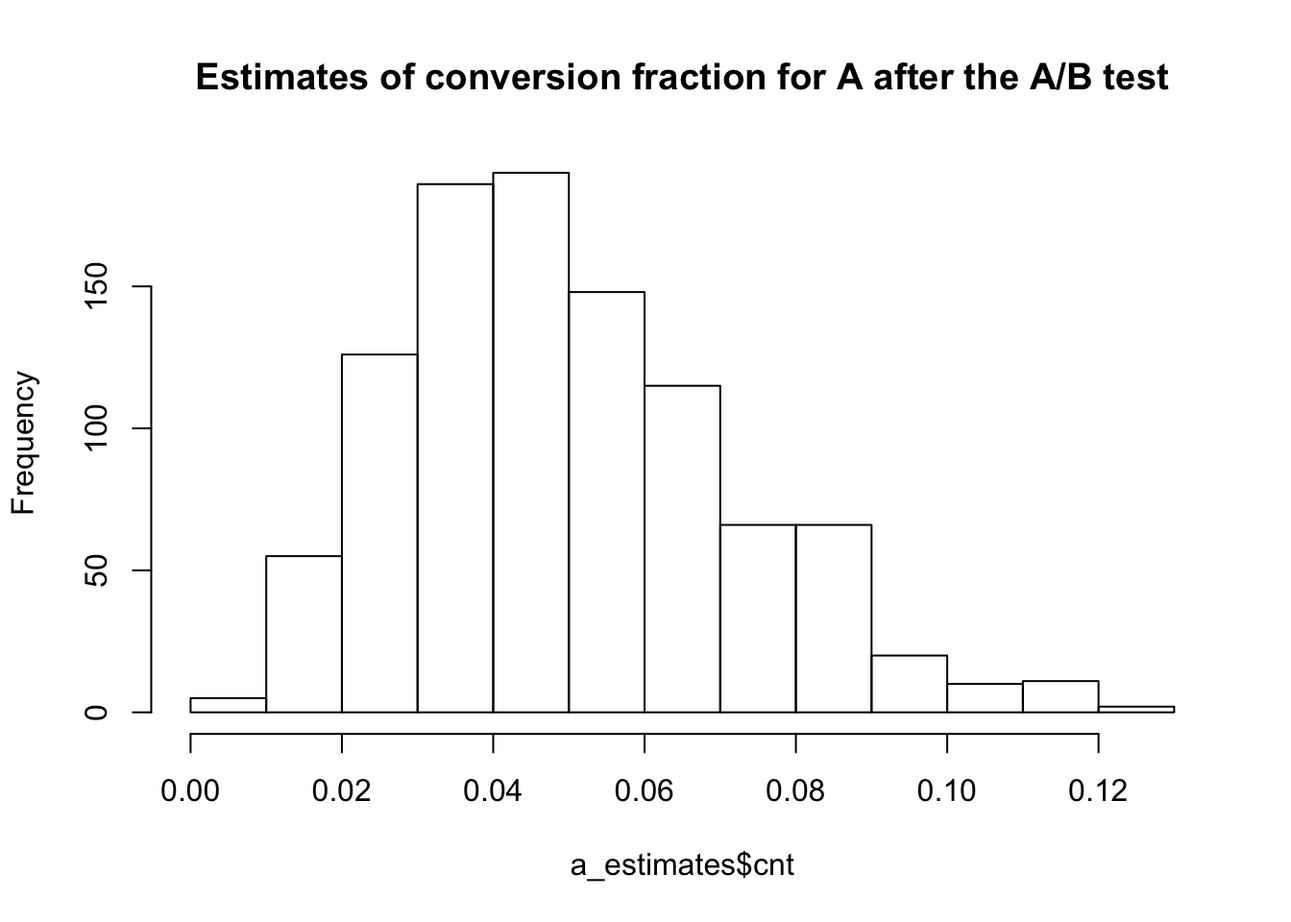
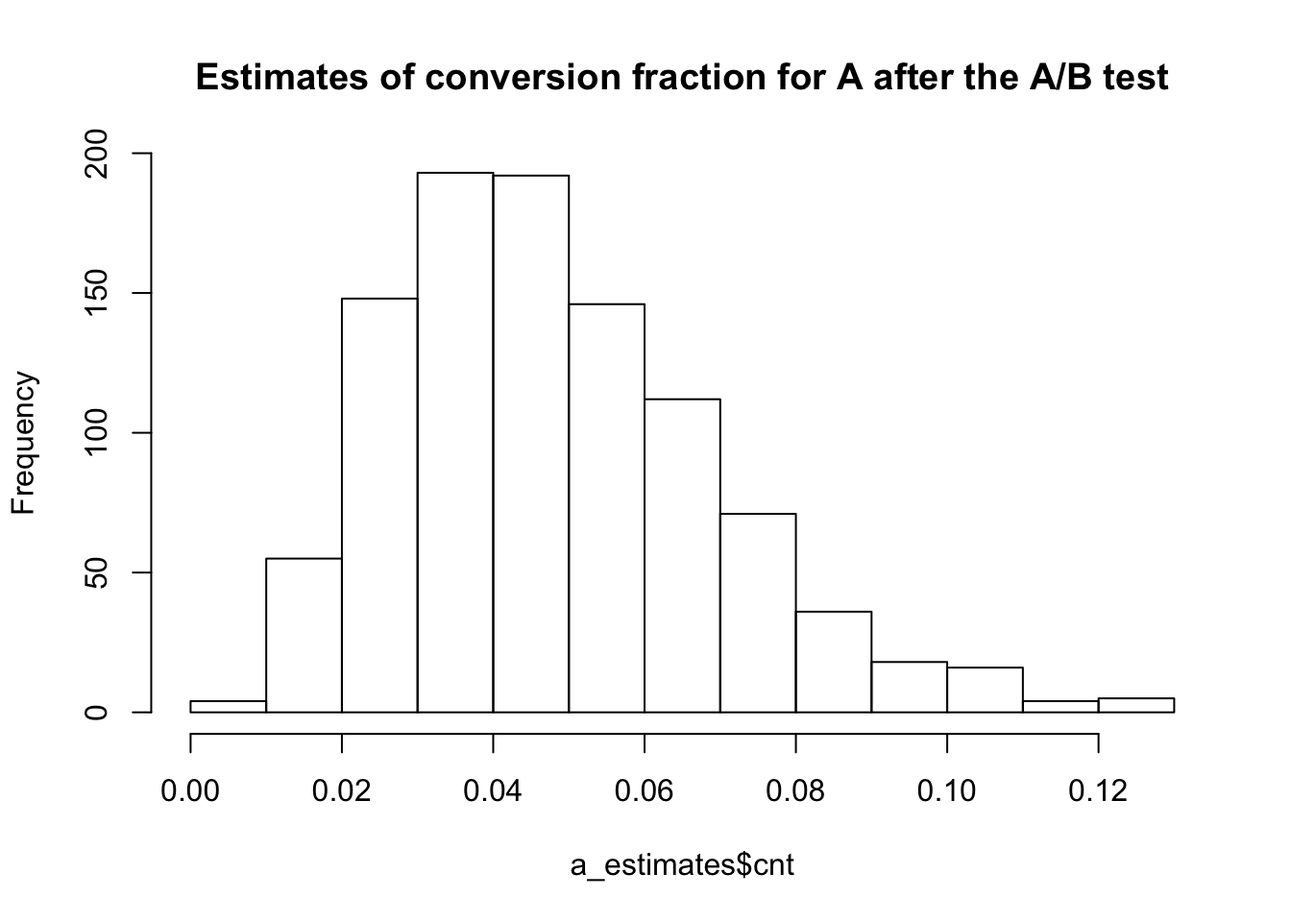
Added additional connection

diff --git a/public/2017/10/17/gantt-charts-in-r/index.html b/public/2017/10/17/gantt-charts-in-r/index.html
@@ -239,7 +239,7 @@ More of the extras            :               extras_3,   after extras_1, 48h
 <h2>Using Plotly</h2>
 <p>If you wanted to use a more</p>
 <div id="htmlwidget-3" style="width:672px;height:480px;" class="plotly html-widget"></div>
-<script type="application/json" data-for="htmlwidget-3">{"x":{"visdat":{"11075701534de":["function () ","plotlyVisDat"]},"cur_data":"11075701534de","attrs":{"11075701534de":{"alpha_stroke":1,"sizes":[10,100],"spans":[1,20],"x":["2016-01-01","2016-02-20"],"y":[1,1],"mode":"lines","line":{"color":"#8DD3C7","width":20},"showlegend":false,"hoverinfo":"text","text":"Task:  Task 1 <br> Duration:  50 days<br> Resource:  A","evaluate":true,"inherit":true},"11075701534de.1":{"alpha_stroke":1,"sizes":[10,100],"spans":[1,20],"x":["2016-02-20","2016-03-16"],"y":[2,2],"mode":"lines","line":{"color":"#FFFFB3","width":20},"showlegend":false,"hoverinfo":"text","text":"Task:  Task 2 <br> Duration:  25 days<br> Resource:  B","evaluate":true,"inherit":true},"11075701534de.2":{"alpha_stroke":1,"sizes":[10,100],"spans":[1,20],"x":["2016-01-01","2016-04-10"],"y":[3,3],"mode":"lines","line":{"color":"#BEBADA","width":20},"showlegend":false,"hoverinfo":"text","text":"Task:  Task 3 <br> Duration:  100 days<br> Resource:  C","evaluate":true,"inherit":true},"11075701534de.3":{"alpha_stroke":1,"sizes":[10,100],"spans":[1,20],"x":["2016-04-10","2016-06-09"],"y":[4,4],"mode":"lines","line":{"color":"#BEBADA","width":20},"showlegend":false,"hoverinfo":"text","text":"Task:  Task 4 <br> Duration:  60 days<br> Resource:  C","evaluate":true,"inherit":true},"11075701534de.4":{"alpha_stroke":1,"sizes":[10,100],"spans":[1,20],"x":["2016-06-09","2016-07-09"],"y":[5,5],"mode":"lines","line":{"color":"#BEBADA","width":20},"showlegend":false,"hoverinfo":"text","text":"Task:  Task 5 <br> Duration:  30 days<br> Resource:  C","evaluate":true,"inherit":true},"11075701534de.5":{"alpha_stroke":1,"sizes":[10,100],"spans":[1,20],"x":["2016-04-10","2016-09-07"],"y":[6,6],"mode":"lines","line":{"color":"#8DD3C7","width":20},"showlegend":false,"hoverinfo":"text","text":"Task:  Task 6 <br> Duration:  150 days<br> Resource:  A","evaluate":true,"inherit":true},"11075701534de.6":{"alpha_stroke":1,"sizes":[10,100],"spans":[1,20],"x":["2016-09-07","2016-11-26"],"y":[7,7],"mode":"lines","line":{"color":"#FFFFB3","width":20},"showlegend":false,"hoverinfo":"text","text":"Task:  Task 7 <br> Duration:  80 days<br> Resource:  B","evaluate":true,"inherit":true}},"layout":{"margin":{"b":40,"l":60,"t":25,"r":10},"xaxis":{"domain":[0,1],"automargin":true,"title":[]},"yaxis":{"domain":[0,1],"automargin":true,"title":[]},"hovermode":"closest","showlegend":false},"source":"A","config":{"showSendToCloud":false},"data":[{"x":["2016-01-01","2016-02-20"],"y":[1,1],"mode":"lines","line":{"color":"#8DD3C7","width":20},"showlegend":false,"hoverinfo":["text","text"],"text":["Task:  Task 1 <br> Duration:  50 days<br> Resource:  A","Task:  Task 1 <br> Duration:  50 days<br> Resource:  A"],"evaluate":true,"type":"scatter","marker":{"color":"rgba(31,119,180,1)","line":{"color":"rgba(31,119,180,1)"}},"error_y":{"color":"rgba(31,119,180,1)"},"error_x":{"color":"rgba(31,119,180,1)"},"xaxis":"x","yaxis":"y","frame":null},{"x":["2016-02-20","2016-03-16"],"y":[2,2],"mode":"lines","line":{"color":"#FFFFB3","width":20},"showlegend":false,"hoverinfo":["text","text"],"text":["Task:  Task 2 <br> Duration:  25 days<br> Resource:  B","Task:  Task 2 <br> Duration:  25 days<br> Resource:  B"],"evaluate":true,"type":"scatter","marker":{"color":"rgba(255,127,14,1)","line":{"color":"rgba(255,127,14,1)"}},"error_y":{"color":"rgba(255,127,14,1)"},"error_x":{"color":"rgba(255,127,14,1)"},"xaxis":"x","yaxis":"y","frame":null},{"x":["2016-01-01","2016-04-10"],"y":[3,3],"mode":"lines","line":{"color":"#BEBADA","width":20},"showlegend":false,"hoverinfo":["text","text"],"text":["Task:  Task 3 <br> Duration:  100 days<br> Resource:  C","Task:  Task 3 <br> Duration:  100 days<br> Resource:  C"],"evaluate":true,"type":"scatter","marker":{"color":"rgba(44,160,44,1)","line":{"color":"rgba(44,160,44,1)"}},"error_y":{"color":"rgba(44,160,44,1)"},"error_x":{"color":"rgba(44,160,44,1)"},"xaxis":"x","yaxis":"y","frame":null},{"x":["2016-04-10","2016-06-09"],"y":[4,4],"mode":"lines","line":{"color":"#BEBADA","width":20},"showlegend":false,"hoverinfo":["text","text"],"text":["Task:  Task 4 <br> Duration:  60 days<br> Resource:  C","Task:  Task 4 <br> Duration:  60 days<br> Resource:  C"],"evaluate":true,"type":"scatter","marker":{"color":"rgba(214,39,40,1)","line":{"color":"rgba(214,39,40,1)"}},"error_y":{"color":"rgba(214,39,40,1)"},"error_x":{"color":"rgba(214,39,40,1)"},"xaxis":"x","yaxis":"y","frame":null},{"x":["2016-06-09","2016-07-09"],"y":[5,5],"mode":"lines","line":{"color":"#BEBADA","width":20},"showlegend":false,"hoverinfo":["text","text"],"text":["Task:  Task 5 <br> Duration:  30 days<br> Resource:  C","Task:  Task 5 <br> Duration:  30 days<br> Resource:  C"],"evaluate":true,"type":"scatter","marker":{"color":"rgba(148,103,189,1)","line":{"color":"rgba(148,103,189,1)"}},"error_y":{"color":"rgba(148,103,189,1)"},"error_x":{"color":"rgba(148,103,189,1)"},"xaxis":"x","yaxis":"y","frame":null},{"x":["2016-04-10","2016-09-07"],"y":[6,6],"mode":"lines","line":{"color":"#8DD3C7","width":20},"showlegend":false,"hoverinfo":["text","text"],"text":["Task:  Task 6 <br> Duration:  150 days<br> Resource:  A","Task:  Task 6 <br> Duration:  150 days<br> Resource:  A"],"evaluate":true,"type":"scatter","marker":{"color":"rgba(140,86,75,1)","line":{"color":"rgba(140,86,75,1)"}},"error_y":{"color":"rgba(140,86,75,1)"},"error_x":{"color":"rgba(140,86,75,1)"},"xaxis":"x","yaxis":"y","frame":null},{"x":["2016-09-07","2016-11-26"],"y":[7,7],"mode":"lines","line":{"color":"#FFFFB3","width":20},"showlegend":false,"hoverinfo":["text","text"],"text":["Task:  Task 7 <br> Duration:  80 days<br> Resource:  B","Task:  Task 7 <br> Duration:  80 days<br> Resource:  B"],"evaluate":true,"type":"scatter","marker":{"color":"rgba(227,119,194,1)","line":{"color":"rgba(227,119,194,1)"}},"error_y":{"color":"rgba(227,119,194,1)"},"error_x":{"color":"rgba(227,119,194,1)"},"xaxis":"x","yaxis":"y","frame":null}],"highlight":{"on":"plotly_click","persistent":false,"dynamic":false,"selectize":false,"opacityDim":0.2,"selected":{"opacity":1},"debounce":0},"shinyEvents":["plotly_hover","plotly_click","plotly_selected","plotly_relayout","plotly_brushed","plotly_brushing","plotly_clickannotation","plotly_doubleclick","plotly_deselect","plotly_afterplot","plotly_sunburstclick"],"base_url":"https://plot.ly"},"evals":[],"jsHooks":[]}</script>
+<script type="application/json" data-for="htmlwidget-3">{"x":{"visdat":{"120406ffeeca1":["function () ","plotlyVisDat"]},"cur_data":"120406ffeeca1","attrs":{"120406ffeeca1":{"alpha_stroke":1,"sizes":[10,100],"spans":[1,20],"x":["2016-01-01","2016-02-20"],"y":[1,1],"mode":"lines","line":{"color":"#8DD3C7","width":20},"showlegend":false,"hoverinfo":"text","text":"Task:  Task 1 <br> Duration:  50 days<br> Resource:  A","evaluate":true,"inherit":true},"120406ffeeca1.1":{"alpha_stroke":1,"sizes":[10,100],"spans":[1,20],"x":["2016-02-20","2016-03-16"],"y":[2,2],"mode":"lines","line":{"color":"#FFFFB3","width":20},"showlegend":false,"hoverinfo":"text","text":"Task:  Task 2 <br> Duration:  25 days<br> Resource:  B","evaluate":true,"inherit":true},"120406ffeeca1.2":{"alpha_stroke":1,"sizes":[10,100],"spans":[1,20],"x":["2016-01-01","2016-04-10"],"y":[3,3],"mode":"lines","line":{"color":"#BEBADA","width":20},"showlegend":false,"hoverinfo":"text","text":"Task:  Task 3 <br> Duration:  100 days<br> Resource:  C","evaluate":true,"inherit":true},"120406ffeeca1.3":{"alpha_stroke":1,"sizes":[10,100],"spans":[1,20],"x":["2016-04-10","2016-06-09"],"y":[4,4],"mode":"lines","line":{"color":"#BEBADA","width":20},"showlegend":false,"hoverinfo":"text","text":"Task:  Task 4 <br> Duration:  60 days<br> Resource:  C","evaluate":true,"inherit":true},"120406ffeeca1.4":{"alpha_stroke":1,"sizes":[10,100],"spans":[1,20],"x":["2016-06-09","2016-07-09"],"y":[5,5],"mode":"lines","line":{"color":"#BEBADA","width":20},"showlegend":false,"hoverinfo":"text","text":"Task:  Task 5 <br> Duration:  30 days<br> Resource:  C","evaluate":true,"inherit":true},"120406ffeeca1.5":{"alpha_stroke":1,"sizes":[10,100],"spans":[1,20],"x":["2016-04-10","2016-09-07"],"y":[6,6],"mode":"lines","line":{"color":"#8DD3C7","width":20},"showlegend":false,"hoverinfo":"text","text":"Task:  Task 6 <br> Duration:  150 days<br> Resource:  A","evaluate":true,"inherit":true},"120406ffeeca1.6":{"alpha_stroke":1,"sizes":[10,100],"spans":[1,20],"x":["2016-09-07","2016-11-26"],"y":[7,7],"mode":"lines","line":{"color":"#FFFFB3","width":20},"showlegend":false,"hoverinfo":"text","text":"Task:  Task 7 <br> Duration:  80 days<br> Resource:  B","evaluate":true,"inherit":true}},"layout":{"margin":{"b":40,"l":60,"t":25,"r":10},"xaxis":{"domain":[0,1],"automargin":true,"title":[]},"yaxis":{"domain":[0,1],"automargin":true,"title":[]},"hovermode":"closest","showlegend":false},"source":"A","config":{"showSendToCloud":false},"data":[{"x":["2016-01-01","2016-02-20"],"y":[1,1],"mode":"lines","line":{"color":"#8DD3C7","width":20},"showlegend":false,"hoverinfo":["text","text"],"text":["Task:  Task 1 <br> Duration:  50 days<br> Resource:  A","Task:  Task 1 <br> Duration:  50 days<br> Resource:  A"],"evaluate":true,"type":"scatter","marker":{"color":"rgba(31,119,180,1)","line":{"color":"rgba(31,119,180,1)"}},"error_y":{"color":"rgba(31,119,180,1)"},"error_x":{"color":"rgba(31,119,180,1)"},"xaxis":"x","yaxis":"y","frame":null},{"x":["2016-02-20","2016-03-16"],"y":[2,2],"mode":"lines","line":{"color":"#FFFFB3","width":20},"showlegend":false,"hoverinfo":["text","text"],"text":["Task:  Task 2 <br> Duration:  25 days<br> Resource:  B","Task:  Task 2 <br> Duration:  25 days<br> Resource:  B"],"evaluate":true,"type":"scatter","marker":{"color":"rgba(255,127,14,1)","line":{"color":"rgba(255,127,14,1)"}},"error_y":{"color":"rgba(255,127,14,1)"},"error_x":{"color":"rgba(255,127,14,1)"},"xaxis":"x","yaxis":"y","frame":null},{"x":["2016-01-01","2016-04-10"],"y":[3,3],"mode":"lines","line":{"color":"#BEBADA","width":20},"showlegend":false,"hoverinfo":["text","text"],"text":["Task:  Task 3 <br> Duration:  100 days<br> Resource:  C","Task:  Task 3 <br> Duration:  100 days<br> Resource:  C"],"evaluate":true,"type":"scatter","marker":{"color":"rgba(44,160,44,1)","line":{"color":"rgba(44,160,44,1)"}},"error_y":{"color":"rgba(44,160,44,1)"},"error_x":{"color":"rgba(44,160,44,1)"},"xaxis":"x","yaxis":"y","frame":null},{"x":["2016-04-10","2016-06-09"],"y":[4,4],"mode":"lines","line":{"color":"#BEBADA","width":20},"showlegend":false,"hoverinfo":["text","text"],"text":["Task:  Task 4 <br> Duration:  60 days<br> Resource:  C","Task:  Task 4 <br> Duration:  60 days<br> Resource:  C"],"evaluate":true,"type":"scatter","marker":{"color":"rgba(214,39,40,1)","line":{"color":"rgba(214,39,40,1)"}},"error_y":{"color":"rgba(214,39,40,1)"},"error_x":{"color":"rgba(214,39,40,1)"},"xaxis":"x","yaxis":"y","frame":null},{"x":["2016-06-09","2016-07-09"],"y":[5,5],"mode":"lines","line":{"color":"#BEBADA","width":20},"showlegend":false,"hoverinfo":["text","text"],"text":["Task:  Task 5 <br> Duration:  30 days<br> Resource:  C","Task:  Task 5 <br> Duration:  30 days<br> Resource:  C"],"evaluate":true,"type":"scatter","marker":{"color":"rgba(148,103,189,1)","line":{"color":"rgba(148,103,189,1)"}},"error_y":{"color":"rgba(148,103,189,1)"},"error_x":{"color":"rgba(148,103,189,1)"},"xaxis":"x","yaxis":"y","frame":null},{"x":["2016-04-10","2016-09-07"],"y":[6,6],"mode":"lines","line":{"color":"#8DD3C7","width":20},"showlegend":false,"hoverinfo":["text","text"],"text":["Task:  Task 6 <br> Duration:  150 days<br> Resource:  A","Task:  Task 6 <br> Duration:  150 days<br> Resource:  A"],"evaluate":true,"type":"scatter","marker":{"color":"rgba(140,86,75,1)","line":{"color":"rgba(140,86,75,1)"}},"error_y":{"color":"rgba(140,86,75,1)"},"error_x":{"color":"rgba(140,86,75,1)"},"xaxis":"x","yaxis":"y","frame":null},{"x":["2016-09-07","2016-11-26"],"y":[7,7],"mode":"lines","line":{"color":"#FFFFB3","width":20},"showlegend":false,"hoverinfo":["text","text"],"text":["Task:  Task 7 <br> Duration:  80 days<br> Resource:  B","Task:  Task 7 <br> Duration:  80 days<br> Resource:  B"],"evaluate":true,"type":"scatter","marker":{"color":"rgba(227,119,194,1)","line":{"color":"rgba(227,119,194,1)"}},"error_y":{"color":"rgba(227,119,194,1)"},"error_x":{"color":"rgba(227,119,194,1)"},"xaxis":"x","yaxis":"y","frame":null}],"highlight":{"on":"plotly_click","persistent":false,"dynamic":false,"selectize":false,"opacityDim":0.2,"selected":{"opacity":1},"debounce":0},"shinyEvents":["plotly_hover","plotly_click","plotly_selected","plotly_relayout","plotly_brushed","plotly_brushing","plotly_clickannotation","plotly_doubleclick","plotly_deselect","plotly_afterplot","plotly_sunburstclick"],"base_url":"https://plot.ly"},"evals":[],"jsHooks":[]}</script>
 </div>
 </div>
 

diff --git a/content/post/2017-10-17-gantt-charts-in-r.html b/content/post/2017-10-17-gantt-charts-in-r.html
@@ -99,6 +99,6 @@ More of the extras            :               extras_3,   after extras_1, 48h
 <h2>Using Plotly</h2>
 <p>If you wanted to use a more</p>
 <div id="htmlwidget-3" style="width:672px;height:480px;" class="plotly html-widget"></div>
-<script type="application/json" data-for="htmlwidget-3">{"x":{"visdat":{"11075701534de":["function () ","plotlyVisDat"]},"cur_data":"11075701534de","attrs":{"11075701534de":{"alpha_stroke":1,"sizes":[10,100],"spans":[1,20],"x":["2016-01-01","2016-02-20"],"y":[1,1],"mode":"lines","line":{"color":"#8DD3C7","width":20},"showlegend":false,"hoverinfo":"text","text":"Task:  Task 1 <br> Duration:  50 days<br> Resource:  A","evaluate":true,"inherit":true},"11075701534de.1":{"alpha_stroke":1,"sizes":[10,100],"spans":[1,20],"x":["2016-02-20","2016-03-16"],"y":[2,2],"mode":"lines","line":{"color":"#FFFFB3","width":20},"showlegend":false,"hoverinfo":"text","text":"Task:  Task 2 <br> Duration:  25 days<br> Resource:  B","evaluate":true,"inherit":true},"11075701534de.2":{"alpha_stroke":1,"sizes":[10,100],"spans":[1,20],"x":["2016-01-01","2016-04-10"],"y":[3,3],"mode":"lines","line":{"color":"#BEBADA","width":20},"showlegend":false,"hoverinfo":"text","text":"Task:  Task 3 <br> Duration:  100 days<br> Resource:  C","evaluate":true,"inherit":true},"11075701534de.3":{"alpha_stroke":1,"sizes":[10,100],"spans":[1,20],"x":["2016-04-10","2016-06-09"],"y":[4,4],"mode":"lines","line":{"color":"#BEBADA","width":20},"showlegend":false,"hoverinfo":"text","text":"Task:  Task 4 <br> Duration:  60 days<br> Resource:  C","evaluate":true,"inherit":true},"11075701534de.4":{"alpha_stroke":1,"sizes":[10,100],"spans":[1,20],"x":["2016-06-09","2016-07-09"],"y":[5,5],"mode":"lines","line":{"color":"#BEBADA","width":20},"showlegend":false,"hoverinfo":"text","text":"Task:  Task 5 <br> Duration:  30 days<br> Resource:  C","evaluate":true,"inherit":true},"11075701534de.5":{"alpha_stroke":1,"sizes":[10,100],"spans":[1,20],"x":["2016-04-10","2016-09-07"],"y":[6,6],"mode":"lines","line":{"color":"#8DD3C7","width":20},"showlegend":false,"hoverinfo":"text","text":"Task:  Task 6 <br> Duration:  150 days<br> Resource:  A","evaluate":true,"inherit":true},"11075701534de.6":{"alpha_stroke":1,"sizes":[10,100],"spans":[1,20],"x":["2016-09-07","2016-11-26"],"y":[7,7],"mode":"lines","line":{"color":"#FFFFB3","width":20},"showlegend":false,"hoverinfo":"text","text":"Task:  Task 7 <br> Duration:  80 days<br> Resource:  B","evaluate":true,"inherit":true}},"layout":{"margin":{"b":40,"l":60,"t":25,"r":10},"xaxis":{"domain":[0,1],"automargin":true,"title":[]},"yaxis":{"domain":[0,1],"automargin":true,"title":[]},"hovermode":"closest","showlegend":false},"source":"A","config":{"showSendToCloud":false},"data":[{"x":["2016-01-01","2016-02-20"],"y":[1,1],"mode":"lines","line":{"color":"#8DD3C7","width":20},"showlegend":false,"hoverinfo":["text","text"],"text":["Task:  Task 1 <br> Duration:  50 days<br> Resource:  A","Task:  Task 1 <br> Duration:  50 days<br> Resource:  A"],"evaluate":true,"type":"scatter","marker":{"color":"rgba(31,119,180,1)","line":{"color":"rgba(31,119,180,1)"}},"error_y":{"color":"rgba(31,119,180,1)"},"error_x":{"color":"rgba(31,119,180,1)"},"xaxis":"x","yaxis":"y","frame":null},{"x":["2016-02-20","2016-03-16"],"y":[2,2],"mode":"lines","line":{"color":"#FFFFB3","width":20},"showlegend":false,"hoverinfo":["text","text"],"text":["Task:  Task 2 <br> Duration:  25 days<br> Resource:  B","Task:  Task 2 <br> Duration:  25 days<br> Resource:  B"],"evaluate":true,"type":"scatter","marker":{"color":"rgba(255,127,14,1)","line":{"color":"rgba(255,127,14,1)"}},"error_y":{"color":"rgba(255,127,14,1)"},"error_x":{"color":"rgba(255,127,14,1)"},"xaxis":"x","yaxis":"y","frame":null},{"x":["2016-01-01","2016-04-10"],"y":[3,3],"mode":"lines","line":{"color":"#BEBADA","width":20},"showlegend":false,"hoverinfo":["text","text"],"text":["Task:  Task 3 <br> Duration:  100 days<br> Resource:  C","Task:  Task 3 <br> Duration:  100 days<br> Resource:  C"],"evaluate":true,"type":"scatter","marker":{"color":"rgba(44,160,44,1)","line":{"color":"rgba(44,160,44,1)"}},"error_y":{"color":"rgba(44,160,44,1)"},"error_x":{"color":"rgba(44,160,44,1)"},"xaxis":"x","yaxis":"y","frame":null},{"x":["2016-04-10","2016-06-09"],"y":[4,4],"mode":"lines","line":{"color":"#BEBADA","width":20},"showlegend":false,"hoverinfo":["text","text"],"text":["Task:  Task 4 <br> Duration:  60 days<br> Resource:  C","Task:  Task 4 <br> Duration:  60 days<br> Resource:  C"],"evaluate":true,"type":"scatter","marker":{"color":"rgba(214,39,40,1)","line":{"color":"rgba(214,39,40,1)"}},"error_y":{"color":"rgba(214,39,40,1)"},"error_x":{"color":"rgba(214,39,40,1)"},"xaxis":"x","yaxis":"y","frame":null},{"x":["2016-06-09","2016-07-09"],"y":[5,5],"mode":"lines","line":{"color":"#BEBADA","width":20},"showlegend":false,"hoverinfo":["text","text"],"text":["Task:  Task 5 <br> Duration:  30 days<br> Resource:  C","Task:  Task 5 <br> Duration:  30 days<br> Resource:  C"],"evaluate":true,"type":"scatter","marker":{"color":"rgba(148,103,189,1)","line":{"color":"rgba(148,103,189,1)"}},"error_y":{"color":"rgba(148,103,189,1)"},"error_x":{"color":"rgba(148,103,189,1)"},"xaxis":"x","yaxis":"y","frame":null},{"x":["2016-04-10","2016-09-07"],"y":[6,6],"mode":"lines","line":{"color":"#8DD3C7","width":20},"showlegend":false,"hoverinfo":["text","text"],"text":["Task:  Task 6 <br> Duration:  150 days<br> Resource:  A","Task:  Task 6 <br> Duration:  150 days<br> Resource:  A"],"evaluate":true,"type":"scatter","marker":{"color":"rgba(140,86,75,1)","line":{"color":"rgba(140,86,75,1)"}},"error_y":{"color":"rgba(140,86,75,1)"},"error_x":{"color":"rgba(140,86,75,1)"},"xaxis":"x","yaxis":"y","frame":null},{"x":["2016-09-07","2016-11-26"],"y":[7,7],"mode":"lines","line":{"color":"#FFFFB3","width":20},"showlegend":false,"hoverinfo":["text","text"],"text":["Task:  Task 7 <br> Duration:  80 days<br> Resource:  B","Task:  Task 7 <br> Duration:  80 days<br> Resource:  B"],"evaluate":true,"type":"scatter","marker":{"color":"rgba(227,119,194,1)","line":{"color":"rgba(227,119,194,1)"}},"error_y":{"color":"rgba(227,119,194,1)"},"error_x":{"color":"rgba(227,119,194,1)"},"xaxis":"x","yaxis":"y","frame":null}],"highlight":{"on":"plotly_click","persistent":false,"dynamic":false,"selectize":false,"opacityDim":0.2,"selected":{"opacity":1},"debounce":0},"shinyEvents":["plotly_hover","plotly_click","plotly_selected","plotly_relayout","plotly_brushed","plotly_brushing","plotly_clickannotation","plotly_doubleclick","plotly_deselect","plotly_afterplot","plotly_sunburstclick"],"base_url":"https://plot.ly"},"evals":[],"jsHooks":[]}</script>
+<script type="application/json" data-for="htmlwidget-3">{"x":{"visdat":{"120406ffeeca1":["function () ","plotlyVisDat"]},"cur_data":"120406ffeeca1","attrs":{"120406ffeeca1":{"alpha_stroke":1,"sizes":[10,100],"spans":[1,20],"x":["2016-01-01","2016-02-20"],"y":[1,1],"mode":"lines","line":{"color":"#8DD3C7","width":20},"showlegend":false,"hoverinfo":"text","text":"Task:  Task 1 <br> Duration:  50 days<br> Resource:  A","evaluate":true,"inherit":true},"120406ffeeca1.1":{"alpha_stroke":1,"sizes":[10,100],"spans":[1,20],"x":["2016-02-20","2016-03-16"],"y":[2,2],"mode":"lines","line":{"color":"#FFFFB3","width":20},"showlegend":false,"hoverinfo":"text","text":"Task:  Task 2 <br> Duration:  25 days<br> Resource:  B","evaluate":true,"inherit":true},"120406ffeeca1.2":{"alpha_stroke":1,"sizes":[10,100],"spans":[1,20],"x":["2016-01-01","2016-04-10"],"y":[3,3],"mode":"lines","line":{"color":"#BEBADA","width":20},"showlegend":false,"hoverinfo":"text","text":"Task:  Task 3 <br> Duration:  100 days<br> Resource:  C","evaluate":true,"inherit":true},"120406ffeeca1.3":{"alpha_stroke":1,"sizes":[10,100],"spans":[1,20],"x":["2016-04-10","2016-06-09"],"y":[4,4],"mode":"lines","line":{"color":"#BEBADA","width":20},"showlegend":false,"hoverinfo":"text","text":"Task:  Task 4 <br> Duration:  60 days<br> Resource:  C","evaluate":true,"inherit":true},"120406ffeeca1.4":{"alpha_stroke":1,"sizes":[10,100],"spans":[1,20],"x":["2016-06-09","2016-07-09"],"y":[5,5],"mode":"lines","line":{"color":"#BEBADA","width":20},"showlegend":false,"hoverinfo":"text","text":"Task:  Task 5 <br> Duration:  30 days<br> Resource:  C","evaluate":true,"inherit":true},"120406ffeeca1.5":{"alpha_stroke":1,"sizes":[10,100],"spans":[1,20],"x":["2016-04-10","2016-09-07"],"y":[6,6],"mode":"lines","line":{"color":"#8DD3C7","width":20},"showlegend":false,"hoverinfo":"text","text":"Task:  Task 6 <br> Duration:  150 days<br> Resource:  A","evaluate":true,"inherit":true},"120406ffeeca1.6":{"alpha_stroke":1,"sizes":[10,100],"spans":[1,20],"x":["2016-09-07","2016-11-26"],"y":[7,7],"mode":"lines","line":{"color":"#FFFFB3","width":20},"showlegend":false,"hoverinfo":"text","text":"Task:  Task 7 <br> Duration:  80 days<br> Resource:  B","evaluate":true,"inherit":true}},"layout":{"margin":{"b":40,"l":60,"t":25,"r":10},"xaxis":{"domain":[0,1],"automargin":true,"title":[]},"yaxis":{"domain":[0,1],"automargin":true,"title":[]},"hovermode":"closest","showlegend":false},"source":"A","config":{"showSendToCloud":false},"data":[{"x":["2016-01-01","2016-02-20"],"y":[1,1],"mode":"lines","line":{"color":"#8DD3C7","width":20},"showlegend":false,"hoverinfo":["text","text"],"text":["Task:  Task 1 <br> Duration:  50 days<br> Resource:  A","Task:  Task 1 <br> Duration:  50 days<br> Resource:  A"],"evaluate":true,"type":"scatter","marker":{"color":"rgba(31,119,180,1)","line":{"color":"rgba(31,119,180,1)"}},"error_y":{"color":"rgba(31,119,180,1)"},"error_x":{"color":"rgba(31,119,180,1)"},"xaxis":"x","yaxis":"y","frame":null},{"x":["2016-02-20","2016-03-16"],"y":[2,2],"mode":"lines","line":{"color":"#FFFFB3","width":20},"showlegend":false,"hoverinfo":["text","text"],"text":["Task:  Task 2 <br> Duration:  25 days<br> Resource:  B","Task:  Task 2 <br> Duration:  25 days<br> Resource:  B"],"evaluate":true,"type":"scatter","marker":{"color":"rgba(255,127,14,1)","line":{"color":"rgba(255,127,14,1)"}},"error_y":{"color":"rgba(255,127,14,1)"},"error_x":{"color":"rgba(255,127,14,1)"},"xaxis":"x","yaxis":"y","frame":null},{"x":["2016-01-01","2016-04-10"],"y":[3,3],"mode":"lines","line":{"color":"#BEBADA","width":20},"showlegend":false,"hoverinfo":["text","text"],"text":["Task:  Task 3 <br> Duration:  100 days<br> Resource:  C","Task:  Task 3 <br> Duration:  100 days<br> Resource:  C"],"evaluate":true,"type":"scatter","marker":{"color":"rgba(44,160,44,1)","line":{"color":"rgba(44,160,44,1)"}},"error_y":{"color":"rgba(44,160,44,1)"},"error_x":{"color":"rgba(44,160,44,1)"},"xaxis":"x","yaxis":"y","frame":null},{"x":["2016-04-10","2016-06-09"],"y":[4,4],"mode":"lines","line":{"color":"#BEBADA","width":20},"showlegend":false,"hoverinfo":["text","text"],"text":["Task:  Task 4 <br> Duration:  60 days<br> Resource:  C","Task:  Task 4 <br> Duration:  60 days<br> Resource:  C"],"evaluate":true,"type":"scatter","marker":{"color":"rgba(214,39,40,1)","line":{"color":"rgba(214,39,40,1)"}},"error_y":{"color":"rgba(214,39,40,1)"},"error_x":{"color":"rgba(214,39,40,1)"},"xaxis":"x","yaxis":"y","frame":null},{"x":["2016-06-09","2016-07-09"],"y":[5,5],"mode":"lines","line":{"color":"#BEBADA","width":20},"showlegend":false,"hoverinfo":["text","text"],"text":["Task:  Task 5 <br> Duration:  30 days<br> Resource:  C","Task:  Task 5 <br> Duration:  30 days<br> Resource:  C"],"evaluate":true,"type":"scatter","marker":{"color":"rgba(148,103,189,1)","line":{"color":"rgba(148,103,189,1)"}},"error_y":{"color":"rgba(148,103,189,1)"},"error_x":{"color":"rgba(148,103,189,1)"},"xaxis":"x","yaxis":"y","frame":null},{"x":["2016-04-10","2016-09-07"],"y":[6,6],"mode":"lines","line":{"color":"#8DD3C7","width":20},"showlegend":false,"hoverinfo":["text","text"],"text":["Task:  Task 6 <br> Duration:  150 days<br> Resource:  A","Task:  Task 6 <br> Duration:  150 days<br> Resource:  A"],"evaluate":true,"type":"scatter","marker":{"color":"rgba(140,86,75,1)","line":{"color":"rgba(140,86,75,1)"}},"error_y":{"color":"rgba(140,86,75,1)"},"error_x":{"color":"rgba(140,86,75,1)"},"xaxis":"x","yaxis":"y","frame":null},{"x":["2016-09-07","2016-11-26"],"y":[7,7],"mode":"lines","line":{"color":"#FFFFB3","width":20},"showlegend":false,"hoverinfo":["text","text"],"text":["Task:  Task 7 <br> Duration:  80 days<br> Resource:  B","Task:  Task 7 <br> Duration:  80 days<br> Resource:  B"],"evaluate":true,"type":"scatter","marker":{"color":"rgba(227,119,194,1)","line":{"color":"rgba(227,119,194,1)"}},"error_y":{"color":"rgba(227,119,194,1)"},"error_x":{"color":"rgba(227,119,194,1)"},"xaxis":"x","yaxis":"y","frame":null}],"highlight":{"on":"plotly_click","persistent":false,"dynamic":false,"selectize":false,"opacityDim":0.2,"selected":{"opacity":1},"debounce":0},"shinyEvents":["plotly_hover","plotly_click","plotly_selected","plotly_relayout","plotly_brushed","plotly_brushing","plotly_clickannotation","plotly_doubleclick","plotly_deselect","plotly_afterplot","plotly_sunburstclick"],"base_url":"https://plot.ly"},"evals":[],"jsHooks":[]}</script>
 </div>
 </div>

diff --git a/public/2018/08/07/time-and-difficulty/index.html b/public/2018/08/07/time-and-difficulty/index.html
@@ -189,7 +189,7 @@ p &lt;- plot_ly(dataset, x = ~Time, y = ~Difficulty, z = ~Favorable, color = ~Id
 
 p</code></pre>
 <div id="htmlwidget-1" style="width:672px;height:480px;" class="plotly html-widget"></div>
-<script type="application/json" data-for="htmlwidget-1">{"x":{"visdat":{"113fb18982a68":["function () ","plotlyVisDat"]},"cur_data":"113fb18982a68","attrs":{"113fb18982a68":{"x":{},"y":{},"z":{},"color":{},"alpha_stroke":1,"sizes":[10,100],"spans":[1,20],"type":"scatter3d","mode":"markers","inherit":true}},"layout":{"margin":{"b":40,"l":60,"t":25,"r":10},"title":"Intellectual Matrix","scene":{"xaxis":{"title":"Length to Complete"},"yaxis":{"title":"Difficulty"},"zaxis":{"title":"Likability"}},"hovermode":"closest","showlegend":true},"source":"A","config":{"showSendToCloud":false},"data":[{"x":[2,2,2,5],"y":[2,2,2,5],"z":[2,2,2,1],"type":"scatter3d","mode":"markers","name":"Build a birdhouse","marker":{"color":"rgba(102,194,165,1)","line":{"color":"rgba(102,194,165,1)"}},"textfont":{"color":"rgba(102,194,165,1)"},"error_y":{"color":"rgba(102,194,165,1)"},"error_x":{"color":"rgba(102,194,165,1)"},"line":{"color":"rgba(102,194,165,1)"},"frame":null},{"x":[5,5,5,1],"y":[5,5,5,1],"z":[2,4,2,3],"type":"scatter3d","mode":"markers","name":"Build a spaceship","marker":{"color":"rgba(252,141,98,1)","line":{"color":"rgba(252,141,98,1)"}},"textfont":{"color":"rgba(252,141,98,1)"},"error_y":{"color":"rgba(252,141,98,1)"},"error_x":{"color":"rgba(252,141,98,1)"},"line":{"color":"rgba(252,141,98,1)"},"frame":null},{"x":[1],"y":[1],"z":[3],"type":"scatter3d","mode":"markers","name":"Clip toenails","marker":{"color":"rgba(141,160,203,1)","line":{"color":"rgba(141,160,203,1)"}},"textfont":{"color":"rgba(141,160,203,1)"},"error_y":{"color":"rgba(141,160,203,1)"},"error_x":{"color":"rgba(141,160,203,1)"},"line":{"color":"rgba(141,160,203,1)"},"frame":null},{"x":[3,3,3,2],"y":[3,3,3,2],"z":[1,1,1,2],"type":"scatter3d","mode":"markers","name":"Collect 10000 friends","marker":{"color":"rgba(231,138,195,1)","line":{"color":"rgba(231,138,195,1)"}},"textfont":{"color":"rgba(231,138,195,1)"},"error_y":{"color":"rgba(231,138,195,1)"},"error_x":{"color":"rgba(231,138,195,1)"},"line":{"color":"rgba(231,138,195,1)"},"frame":null},{"x":[5,5,5,5],"y":[4,4,5,5],"z":[5,1,5,3],"type":"scatter3d","mode":"markers","name":"Create a new social platform","marker":{"color":"rgba(166,216,84,1)","line":{"color":"rgba(166,216,84,1)"}},"textfont":{"color":"rgba(166,216,84,1)"},"error_y":{"color":"rgba(166,216,84,1)"},"error_x":{"color":"rgba(166,216,84,1)"},"line":{"color":"rgba(166,216,84,1)"},"frame":null}],"highlight":{"on":"plotly_click","persistent":false,"dynamic":false,"selectize":false,"opacityDim":0.2,"selected":{"opacity":1},"debounce":0},"shinyEvents":["plotly_hover","plotly_click","plotly_selected","plotly_relayout","plotly_brushed","plotly_brushing","plotly_clickannotation","plotly_doubleclick","plotly_deselect","plotly_afterplot","plotly_sunburstclick"],"base_url":"https://plot.ly"},"evals":[],"jsHooks":[]}</script>
+<script type="application/json" data-for="htmlwidget-1">{"x":{"visdat":{"123682dda0e56":["function () ","plotlyVisDat"]},"cur_data":"123682dda0e56","attrs":{"123682dda0e56":{"x":{},"y":{},"z":{},"color":{},"alpha_stroke":1,"sizes":[10,100],"spans":[1,20],"type":"scatter3d","mode":"markers","inherit":true}},"layout":{"margin":{"b":40,"l":60,"t":25,"r":10},"title":"Intellectual Matrix","scene":{"xaxis":{"title":"Length to Complete"},"yaxis":{"title":"Difficulty"},"zaxis":{"title":"Likability"}},"hovermode":"closest","showlegend":true},"source":"A","config":{"showSendToCloud":false},"data":[{"x":[2,2,2,5],"y":[2,2,2,5],"z":[2,2,2,1],"type":"scatter3d","mode":"markers","name":"Build a birdhouse","marker":{"color":"rgba(102,194,165,1)","line":{"color":"rgba(102,194,165,1)"}},"textfont":{"color":"rgba(102,194,165,1)"},"error_y":{"color":"rgba(102,194,165,1)"},"error_x":{"color":"rgba(102,194,165,1)"},"line":{"color":"rgba(102,194,165,1)"},"frame":null},{"x":[5,5,5,1],"y":[5,5,5,1],"z":[2,4,2,3],"type":"scatter3d","mode":"markers","name":"Build a spaceship","marker":{"color":"rgba(252,141,98,1)","line":{"color":"rgba(252,141,98,1)"}},"textfont":{"color":"rgba(252,141,98,1)"},"error_y":{"color":"rgba(252,141,98,1)"},"error_x":{"color":"rgba(252,141,98,1)"},"line":{"color":"rgba(252,141,98,1)"},"frame":null},{"x":[1],"y":[1],"z":[3],"type":"scatter3d","mode":"markers","name":"Clip toenails","marker":{"color":"rgba(141,160,203,1)","line":{"color":"rgba(141,160,203,1)"}},"textfont":{"color":"rgba(141,160,203,1)"},"error_y":{"color":"rgba(141,160,203,1)"},"error_x":{"color":"rgba(141,160,203,1)"},"line":{"color":"rgba(141,160,203,1)"},"frame":null},{"x":[3,3,3,2],"y":[3,3,3,2],"z":[1,1,1,2],"type":"scatter3d","mode":"markers","name":"Collect 10000 friends","marker":{"color":"rgba(231,138,195,1)","line":{"color":"rgba(231,138,195,1)"}},"textfont":{"color":"rgba(231,138,195,1)"},"error_y":{"color":"rgba(231,138,195,1)"},"error_x":{"color":"rgba(231,138,195,1)"},"line":{"color":"rgba(231,138,195,1)"},"frame":null},{"x":[5,5,5,5],"y":[4,4,5,5],"z":[5,1,5,3],"type":"scatter3d","mode":"markers","name":"Create a new social platform","marker":{"color":"rgba(166,216,84,1)","line":{"color":"rgba(166,216,84,1)"}},"textfont":{"color":"rgba(166,216,84,1)"},"error_y":{"color":"rgba(166,216,84,1)"},"error_x":{"color":"rgba(166,216,84,1)"},"line":{"color":"rgba(166,216,84,1)"},"frame":null}],"highlight":{"on":"plotly_click","persistent":false,"dynamic":false,"selectize":false,"opacityDim":0.2,"selected":{"opacity":1},"debounce":0},"shinyEvents":["plotly_hover","plotly_click","plotly_selected","plotly_relayout","plotly_brushed","plotly_brushing","plotly_clickannotation","plotly_doubleclick","plotly_deselect","plotly_afterplot","plotly_sunburstclick"],"base_url":"https://plot.ly"},"evals":[],"jsHooks":[]}</script>
 
         </p>
     </div>

diff --git a/content/post/2018-08-07-time-and-difficulty.html b/content/post/2018-08-07-time-and-difficulty.html
@@ -51,4 +51,4 @@ p &lt;- plot_ly(dataset, x = ~Time, y = ~Difficulty, z = ~Favorable, color = ~Id
 
 p</code></pre>
 <div id="htmlwidget-1" style="width:672px;height:480px;" class="plotly html-widget"></div>
-<script type="application/json" data-for="htmlwidget-1">{"x":{"visdat":{"113fb18982a68":["function () ","plotlyVisDat"]},"cur_data":"113fb18982a68","attrs":{"113fb18982a68":{"x":{},"y":{},"z":{},"color":{},"alpha_stroke":1,"sizes":[10,100],"spans":[1,20],"type":"scatter3d","mode":"markers","inherit":true}},"layout":{"margin":{"b":40,"l":60,"t":25,"r":10},"title":"Intellectual Matrix","scene":{"xaxis":{"title":"Length to Complete"},"yaxis":{"title":"Difficulty"},"zaxis":{"title":"Likability"}},"hovermode":"closest","showlegend":true},"source":"A","config":{"showSendToCloud":false},"data":[{"x":[2,2,2,5],"y":[2,2,2,5],"z":[2,2,2,1],"type":"scatter3d","mode":"markers","name":"Build a birdhouse","marker":{"color":"rgba(102,194,165,1)","line":{"color":"rgba(102,194,165,1)"}},"textfont":{"color":"rgba(102,194,165,1)"},"error_y":{"color":"rgba(102,194,165,1)"},"error_x":{"color":"rgba(102,194,165,1)"},"line":{"color":"rgba(102,194,165,1)"},"frame":null},{"x":[5,5,5,1],"y":[5,5,5,1],"z":[2,4,2,3],"type":"scatter3d","mode":"markers","name":"Build a spaceship","marker":{"color":"rgba(252,141,98,1)","line":{"color":"rgba(252,141,98,1)"}},"textfont":{"color":"rgba(252,141,98,1)"},"error_y":{"color":"rgba(252,141,98,1)"},"error_x":{"color":"rgba(252,141,98,1)"},"line":{"color":"rgba(252,141,98,1)"},"frame":null},{"x":[1],"y":[1],"z":[3],"type":"scatter3d","mode":"markers","name":"Clip toenails","marker":{"color":"rgba(141,160,203,1)","line":{"color":"rgba(141,160,203,1)"}},"textfont":{"color":"rgba(141,160,203,1)"},"error_y":{"color":"rgba(141,160,203,1)"},"error_x":{"color":"rgba(141,160,203,1)"},"line":{"color":"rgba(141,160,203,1)"},"frame":null},{"x":[3,3,3,2],"y":[3,3,3,2],"z":[1,1,1,2],"type":"scatter3d","mode":"markers","name":"Collect 10000 friends","marker":{"color":"rgba(231,138,195,1)","line":{"color":"rgba(231,138,195,1)"}},"textfont":{"color":"rgba(231,138,195,1)"},"error_y":{"color":"rgba(231,138,195,1)"},"error_x":{"color":"rgba(231,138,195,1)"},"line":{"color":"rgba(231,138,195,1)"},"frame":null},{"x":[5,5,5,5],"y":[4,4,5,5],"z":[5,1,5,3],"type":"scatter3d","mode":"markers","name":"Create a new social platform","marker":{"color":"rgba(166,216,84,1)","line":{"color":"rgba(166,216,84,1)"}},"textfont":{"color":"rgba(166,216,84,1)"},"error_y":{"color":"rgba(166,216,84,1)"},"error_x":{"color":"rgba(166,216,84,1)"},"line":{"color":"rgba(166,216,84,1)"},"frame":null}],"highlight":{"on":"plotly_click","persistent":false,"dynamic":false,"selectize":false,"opacityDim":0.2,"selected":{"opacity":1},"debounce":0},"shinyEvents":["plotly_hover","plotly_click","plotly_selected","plotly_relayout","plotly_brushed","plotly_brushing","plotly_clickannotation","plotly_doubleclick","plotly_deselect","plotly_afterplot","plotly_sunburstclick"],"base_url":"https://plot.ly"},"evals":[],"jsHooks":[]}</script>
+<script type="application/json" data-for="htmlwidget-1">{"x":{"visdat":{"123682dda0e56":["function () ","plotlyVisDat"]},"cur_data":"123682dda0e56","attrs":{"123682dda0e56":{"x":{},"y":{},"z":{},"color":{},"alpha_stroke":1,"sizes":[10,100],"spans":[1,20],"type":"scatter3d","mode":"markers","inherit":true}},"layout":{"margin":{"b":40,"l":60,"t":25,"r":10},"title":"Intellectual Matrix","scene":{"xaxis":{"title":"Length to Complete"},"yaxis":{"title":"Difficulty"},"zaxis":{"title":"Likability"}},"hovermode":"closest","showlegend":true},"source":"A","config":{"showSendToCloud":false},"data":[{"x":[2,2,2,5],"y":[2,2,2,5],"z":[2,2,2,1],"type":"scatter3d","mode":"markers","name":"Build a birdhouse","marker":{"color":"rgba(102,194,165,1)","line":{"color":"rgba(102,194,165,1)"}},"textfont":{"color":"rgba(102,194,165,1)"},"error_y":{"color":"rgba(102,194,165,1)"},"error_x":{"color":"rgba(102,194,165,1)"},"line":{"color":"rgba(102,194,165,1)"},"frame":null},{"x":[5,5,5,1],"y":[5,5,5,1],"z":[2,4,2,3],"type":"scatter3d","mode":"markers","name":"Build a spaceship","marker":{"color":"rgba(252,141,98,1)","line":{"color":"rgba(252,141,98,1)"}},"textfont":{"color":"rgba(252,141,98,1)"},"error_y":{"color":"rgba(252,141,98,1)"},"error_x":{"color":"rgba(252,141,98,1)"},"line":{"color":"rgba(252,141,98,1)"},"frame":null},{"x":[1],"y":[1],"z":[3],"type":"scatter3d","mode":"markers","name":"Clip toenails","marker":{"color":"rgba(141,160,203,1)","line":{"color":"rgba(141,160,203,1)"}},"textfont":{"color":"rgba(141,160,203,1)"},"error_y":{"color":"rgba(141,160,203,1)"},"error_x":{"color":"rgba(141,160,203,1)"},"line":{"color":"rgba(141,160,203,1)"},"frame":null},{"x":[3,3,3,2],"y":[3,3,3,2],"z":[1,1,1,2],"type":"scatter3d","mode":"markers","name":"Collect 10000 friends","marker":{"color":"rgba(231,138,195,1)","line":{"color":"rgba(231,138,195,1)"}},"textfont":{"color":"rgba(231,138,195,1)"},"error_y":{"color":"rgba(231,138,195,1)"},"error_x":{"color":"rgba(231,138,195,1)"},"line":{"color":"rgba(231,138,195,1)"},"frame":null},{"x":[5,5,5,5],"y":[4,4,5,5],"z":[5,1,5,3],"type":"scatter3d","mode":"markers","name":"Create a new social platform","marker":{"color":"rgba(166,216,84,1)","line":{"color":"rgba(166,216,84,1)"}},"textfont":{"color":"rgba(166,216,84,1)"},"error_y":{"color":"rgba(166,216,84,1)"},"error_x":{"color":"rgba(166,216,84,1)"},"line":{"color":"rgba(166,216,84,1)"},"frame":null}],"highlight":{"on":"plotly_click","persistent":false,"dynamic":false,"selectize":false,"opacityDim":0.2,"selected":{"opacity":1},"debounce":0},"shinyEvents":["plotly_hover","plotly_click","plotly_selected","plotly_relayout","plotly_brushed","plotly_brushing","plotly_clickannotation","plotly_doubleclick","plotly_deselect","plotly_afterplot","plotly_sunburstclick"],"base_url":"https://plot.ly"},"evals":[],"jsHooks":[]}</script>

diff --git a/public/page/4/index.html b/public/page/4/index.html
@@ -8,7 +8,7 @@
     <meta name="viewport" content="width=device-width, initial-scale=1">
     <meta name="format-detection" content="telephone=no"/>
 
-    <title>Chris Ried Blog</title>
+    <title>CBayes</title>
     
     <link rel="apple-touch-icon" sizes="180x180" href="../../apple-touch-icon.png">
     <link rel="icon" type="image/png" sizes="32x32" href="../../favicon-32x32.png">
@@ -30,7 +30,7 @@
     
  
     
-    <link rel="alternate" type="application/rss+xml" href="../../index.xml" title="Chris Ried Blog" />
+    <link rel="alternate" type="application/rss+xml" href="../../index.xml" title="CBayes" />
     
 <script type="application/javascript">
 var doNotTrack = false;
@@ -51,7 +51,7 @@ if (!doNotTrack) {
 <nav>
   <header>
     <div class="site-title">
-        <a href="../../">Chris Ried Blog</a>
+        <a href="../../">CBayes</a>
     </div>  
 </header>
 
@@ -146,7 +146,7 @@ if (!doNotTrack) {
 <div class = "article-content">
         
         <div class="description">
-            <p>A website built through Hugo and blogdown.</p>
+            <p>A blog of thoughts</p>
         </div>
         
         
@@ -160,9 +160,9 @@ if (!doNotTrack) {
             </h2>
             <div>
                 <p>Accelerating force
-$$ F=mv_e $$ thrust of the rocket is expressed in terms of the *mass flow rate * m and the efficient exhaust velocity $v_e$
-$$ V = V_e\log_e\frac{M_0}{M} $$ $M_0$ - mass of the rocket at ignition $M$ - Current mass of the rocket
-mass ratio $$ R = \frac{M_0}{M} $$
+\[ F=mv_e \] thrust of the rocket is expressed in terms of the mass flow rate  m and the efficient exhaust velocity \(v_e\)
+\[ V = V_e\log_e\frac{M_0}{M} \] \(M_0\) - mass of the rocket at ignition \(M\) - Current mass of the rocket
+mass ratio \[ R = \frac{M_0}{M} \]
 RocketEquationGraph &lt;- data.frame(Mass.Ratio = c(seq(1:20))) RocketEquationGraph &lt;- RocketEquationGraph %&gt;% mutate( M4000 = RocketEquation(Mass.Ratio, 4000),M3000 = RocketEquation(Mass.Ratio, 3000),M2000 = RocketEquation(Mass.</p>
                 
             </div>

diff --git a/public/categories/r/index.html b/public/categories/r/index.html
@@ -156,7 +156,7 @@ if (!doNotTrack) {
             <div>
                 <p>Here are a few different ways to format numbers in R. A few of theme can be accomplished using the paste function in R. I’ve found that there are a few different methods to do this.
 Using the scales package Using the scales packages from Hadley, there is a great function with various options including passing a vector.
- Formatting currency with separator Following is a simple function one can build and place in their utility function that will give formatted currency.</p>
+ library(scales) dollar_format()(c(-100, 0.23, 1.456565, 2e3)) ## [1] &quot;-$100.00&quot; &quot;$0.23&quot; &quot;$1.46&quot; &quot;$2,000.</p>
                 
             </div>
             <div class="post-footer">

diff --git a/public/index.html b/public/index.html
@@ -161,7 +161,7 @@ if (!doNotTrack) {
             <div>
                 <p>Here are a few different ways to format numbers in R. A few of theme can be accomplished using the paste function in R. I’ve found that there are a few different methods to do this.
 Using the scales package Using the scales packages from Hadley, there is a great function with various options including passing a vector.
- Formatting currency with separator Following is a simple function one can build and place in their utility function that will give formatted currency.</p>
+ library(scales) dollar_format()(c(-100, 0.23, 1.456565, 2e3)) ## [1] &quot;-$100.00&quot; &quot;$0.23&quot; &quot;$1.46&quot; &quot;$2,000.</p>
                 
             </div>
             <div class="post-footer">

diff --git a/public/tags/currencies/index.html b/public/tags/currencies/index.html
@@ -156,7 +156,7 @@ if (!doNotTrack) {
             <div>
                 <p>Here are a few different ways to format numbers in R. A few of theme can be accomplished using the paste function in R. I’ve found that there are a few different methods to do this.
 Using the scales package Using the scales packages from Hadley, there is a great function with various options including passing a vector.
- Formatting currency with separator Following is a simple function one can build and place in their utility function that will give formatted currency.</p>
+ library(scales) dollar_format()(c(-100, 0.23, 1.456565, 2e3)) ## [1] &quot;-$100.00&quot; &quot;$0.23&quot; &quot;$1.46&quot; &quot;$2,000.</p>
                 
             </div>
             <div class="post-footer">

diff --git a/public/tags/r/index.html b/public/tags/r/index.html
@@ -156,7 +156,7 @@ if (!doNotTrack) {
             <div>
                 <p>Here are a few different ways to format numbers in R. A few of theme can be accomplished using the paste function in R. I’ve found that there are a few different methods to do this.
 Using the scales package Using the scales packages from Hadley, there is a great function with various options including passing a vector.
- Formatting currency with separator Following is a simple function one can build and place in their utility function that will give formatted currency.</p>
+ library(scales) dollar_format()(c(-100, 0.23, 1.456565, 2e3)) ## [1] &quot;-$100.00&quot; &quot;$0.23&quot; &quot;$1.46&quot; &quot;$2,000.</p>
                 
             </div>
             <div class="post-footer">

diff --git a/public/2018/08/21/formatting-currencies-in-r/index.html b/public/2018/08/21/formatting-currencies-in-r/index.html
@@ -154,6 +154,9 @@ if (!doNotTrack) {
 <div id="using-the-scales-package" class="section level3">
 <h3>Using the scales package</h3>
 <p>Using the <em>scales</em> packages from Hadley, there is a great function with various options including passing a vector.</p>
+<pre class="r"><code>    library(scales)
+    dollar_format()(c(-100, 0.23, 1.456565, 2e3))</code></pre>
+<pre><code>## [1] &quot;-$100.00&quot;  &quot;$0.23&quot;     &quot;$1.46&quot;     &quot;$2,000.00&quot;</code></pre>
 </div>
 <div id="formatting-currency-with-separator" class="section level3">
 <h3>Formatting currency with separator</h3>

diff --git a/content/post/2018-08-21-formatting-currencies-in-r.html b/content/post/2018-08-21-formatting-currencies-in-r.html
@@ -16,6 +16,9 @@ tags:
 <div id="using-the-scales-package" class="section level3">
 <h3>Using the scales package</h3>
 <p>Using the <em>scales</em> packages from Hadley, there is a great function with various options including passing a vector.</p>
+<pre class="r"><code>    library(scales)
+    dollar_format()(c(-100, 0.23, 1.456565, 2e3))</code></pre>
+<pre><code>## [1] &quot;-$100.00&quot;  &quot;$0.23&quot;     &quot;$1.46&quot;     &quot;$2,000.00&quot;</code></pre>
 </div>
 <div id="formatting-currency-with-separator" class="section level3">
 <h3>Formatting currency with separator</h3>

diff --git a/public/2017/09/29/ab-testing-in-r-from-scratch/index.html b/public/2017/09/29/ab-testing-in-r-from-scratch/index.html
@@ -290,7 +290,7 @@ ggplot(trailCnt, aes(cnt, fill=trial)) +
 <p><img src="../../../../post/2017-09-29-ab-testing-in-r-from-scratch_files/figure-html/unnamed-chunk-9-1.png" width="672" /></p>
 <pre class="r"><code>a &lt;- a_estimates$cnt &gt; b_estimates$cnt
 sum(a == TRUE)/length(a)</code></pre>
-<pre><code>## [1] 0.354</code></pre>
+<pre><code>## [1] 0.331</code></pre>
 </div>
 
         </p>
